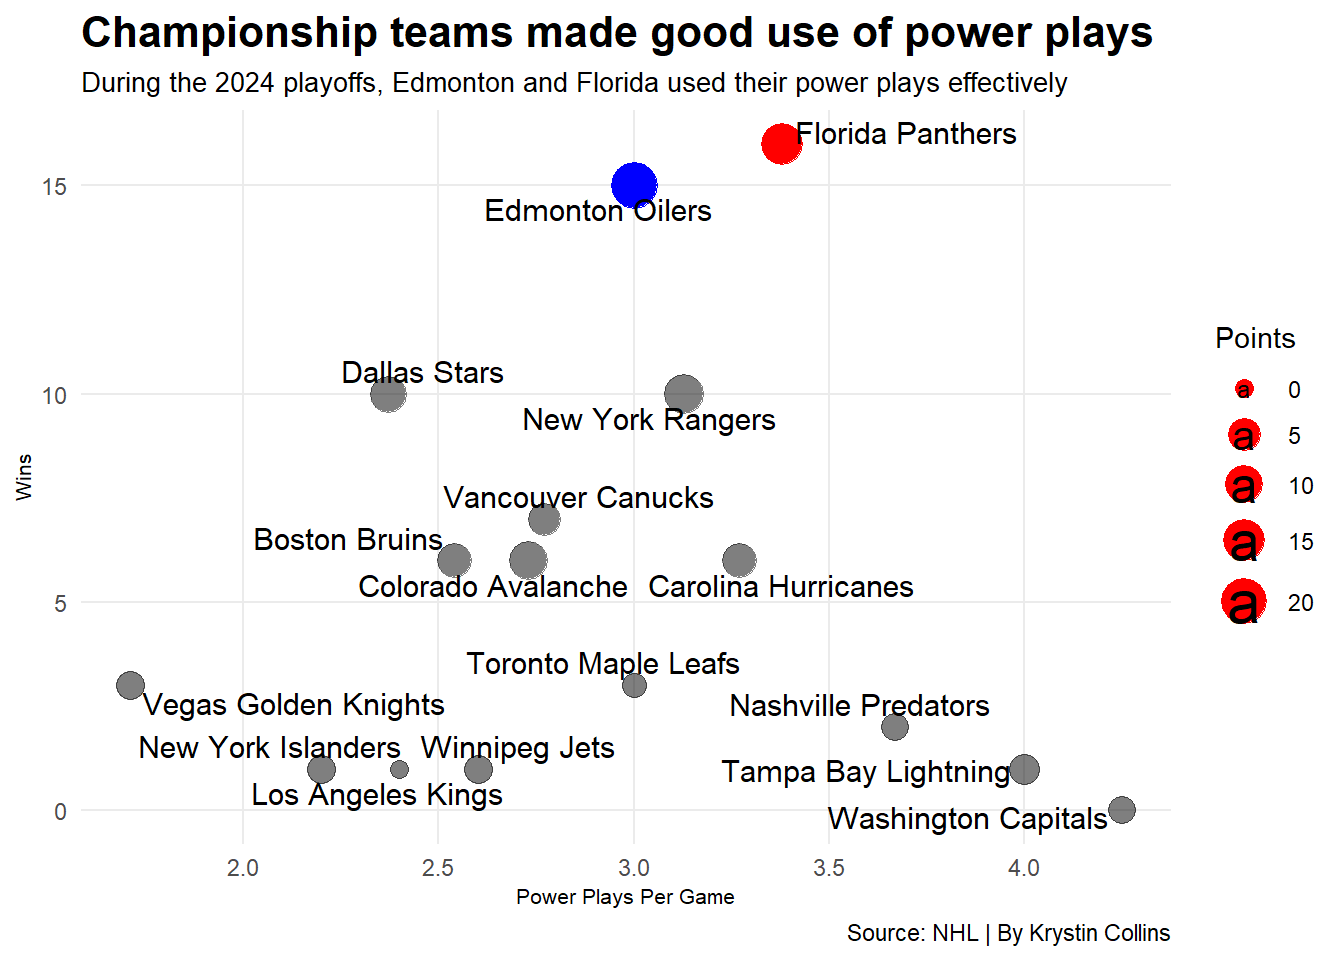
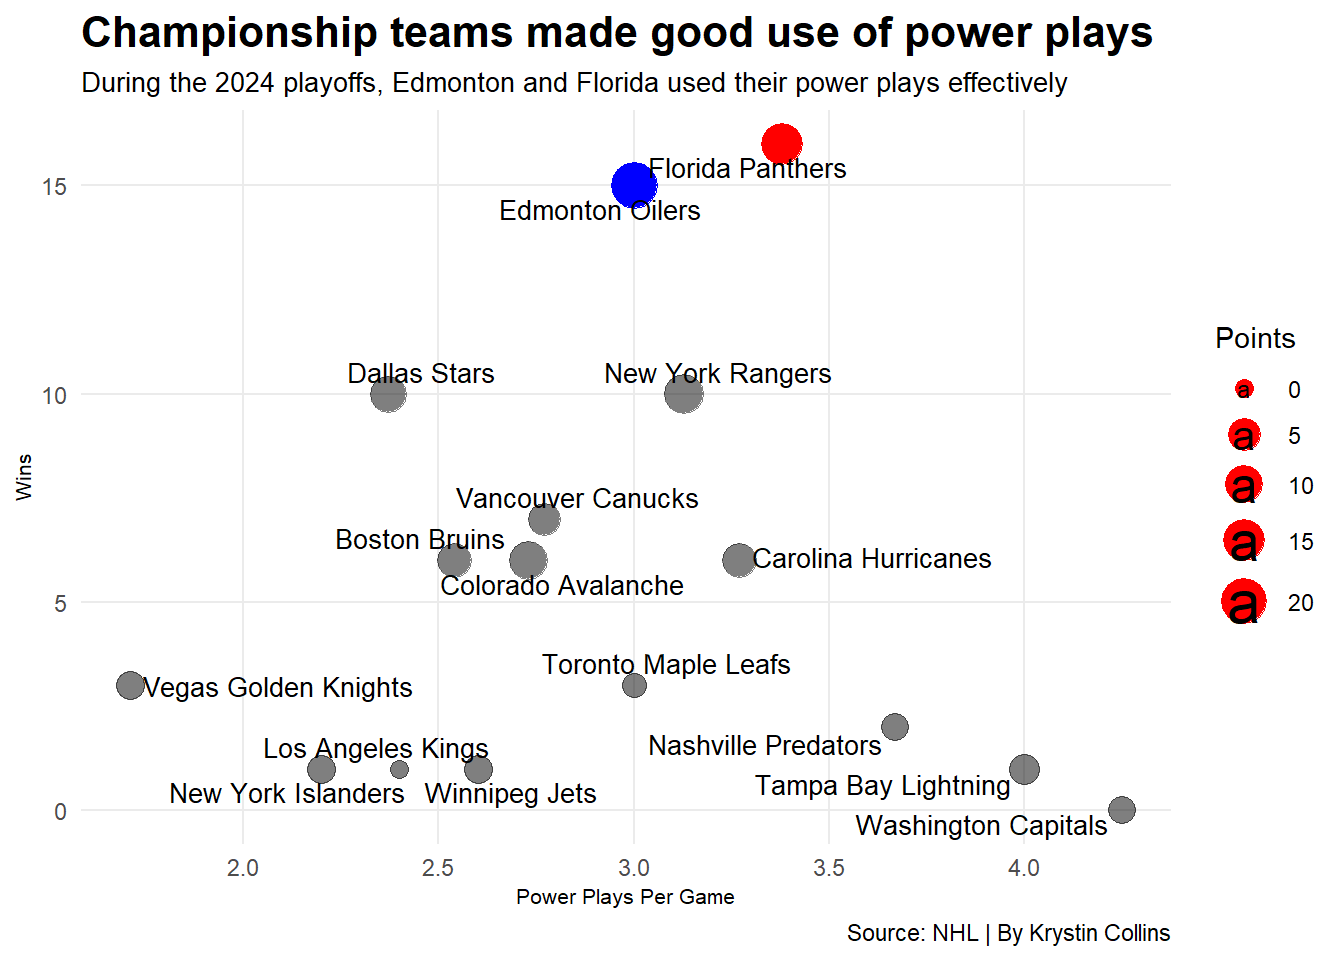
push

diff --git a/posts/nhl-playoff-power-plays/index.html b/posts/nhl-playoff-power-plays/index.html
@@ -245,7 +245,7 @@ pre > code.sourceCode > span > a:first-child::before { text-decoration: underlin
 <span id="cb1-44"><a href="#cb1-44" aria-hidden="true" tabindex="-1"></a>      <span class="at">x =</span> PP.Opp.GP, </span>
 <span id="cb1-45"><a href="#cb1-45" aria-hidden="true" tabindex="-1"></a>      <span class="at">y =</span> W, </span>
 <span id="cb1-46"><a href="#cb1-46" aria-hidden="true" tabindex="-1"></a>      <span class="at">label=</span>Team,</span>
-<span id="cb1-47"><a href="#cb1-47" aria-hidden="true" tabindex="-1"></a>      <span class="at">size =</span> <span class="dv">1</span></span>
+<span id="cb1-47"><a href="#cb1-47" aria-hidden="true" tabindex="-1"></a>      <span class="at">size =</span> .<span class="dv">3</span></span>
 <span id="cb1-48"><a href="#cb1-48" aria-hidden="true" tabindex="-1"></a>    )</span>
 <span id="cb1-49"><a href="#cb1-49" aria-hidden="true" tabindex="-1"></a>  )  <span class="sc">+</span></span>
 <span id="cb1-50"><a href="#cb1-50" aria-hidden="true" tabindex="-1"></a>  <span class="fu">labs</span>(</span>

diff --git a/index.html b/index.html
@@ -210,7 +210,7 @@ window.Quarto = {
 
 <div class="quarto-listing quarto-listing-container-default" id="listing-listing">
 <div class="list quarto-listing-default">
-<div class="quarto-post image-right" data-index="0" data-categories="aG9ja2V5" data-listing-date-sort="1733637600000" data-listing-file-modified-sort="1733347410858" data-listing-date-modified-sort="NaN" data-listing-reading-time-sort="2" data-listing-word-count-sort="387">
+<div class="quarto-post image-right" data-index="0" data-categories="aG9ja2V5" data-listing-date-sort="1733637600000" data-listing-file-modified-sort="1733348433664" data-listing-date-modified-sort="NaN" data-listing-reading-time-sort="2" data-listing-word-count-sort="387">
 <div class="thumbnail">
 <p><a href="./posts/nhl-playoff-power-plays/index.html" class="no-external"></a></p><a href="./posts/nhl-playoff-power-plays/index.html" class="no-external">
 <p class="card-img-top"><img src="posts\nhl-playoff-power-plays\index_files\figure-html\unnamed-chunk-1-1.png"  class="thumbnail-image card-img"/></p>
